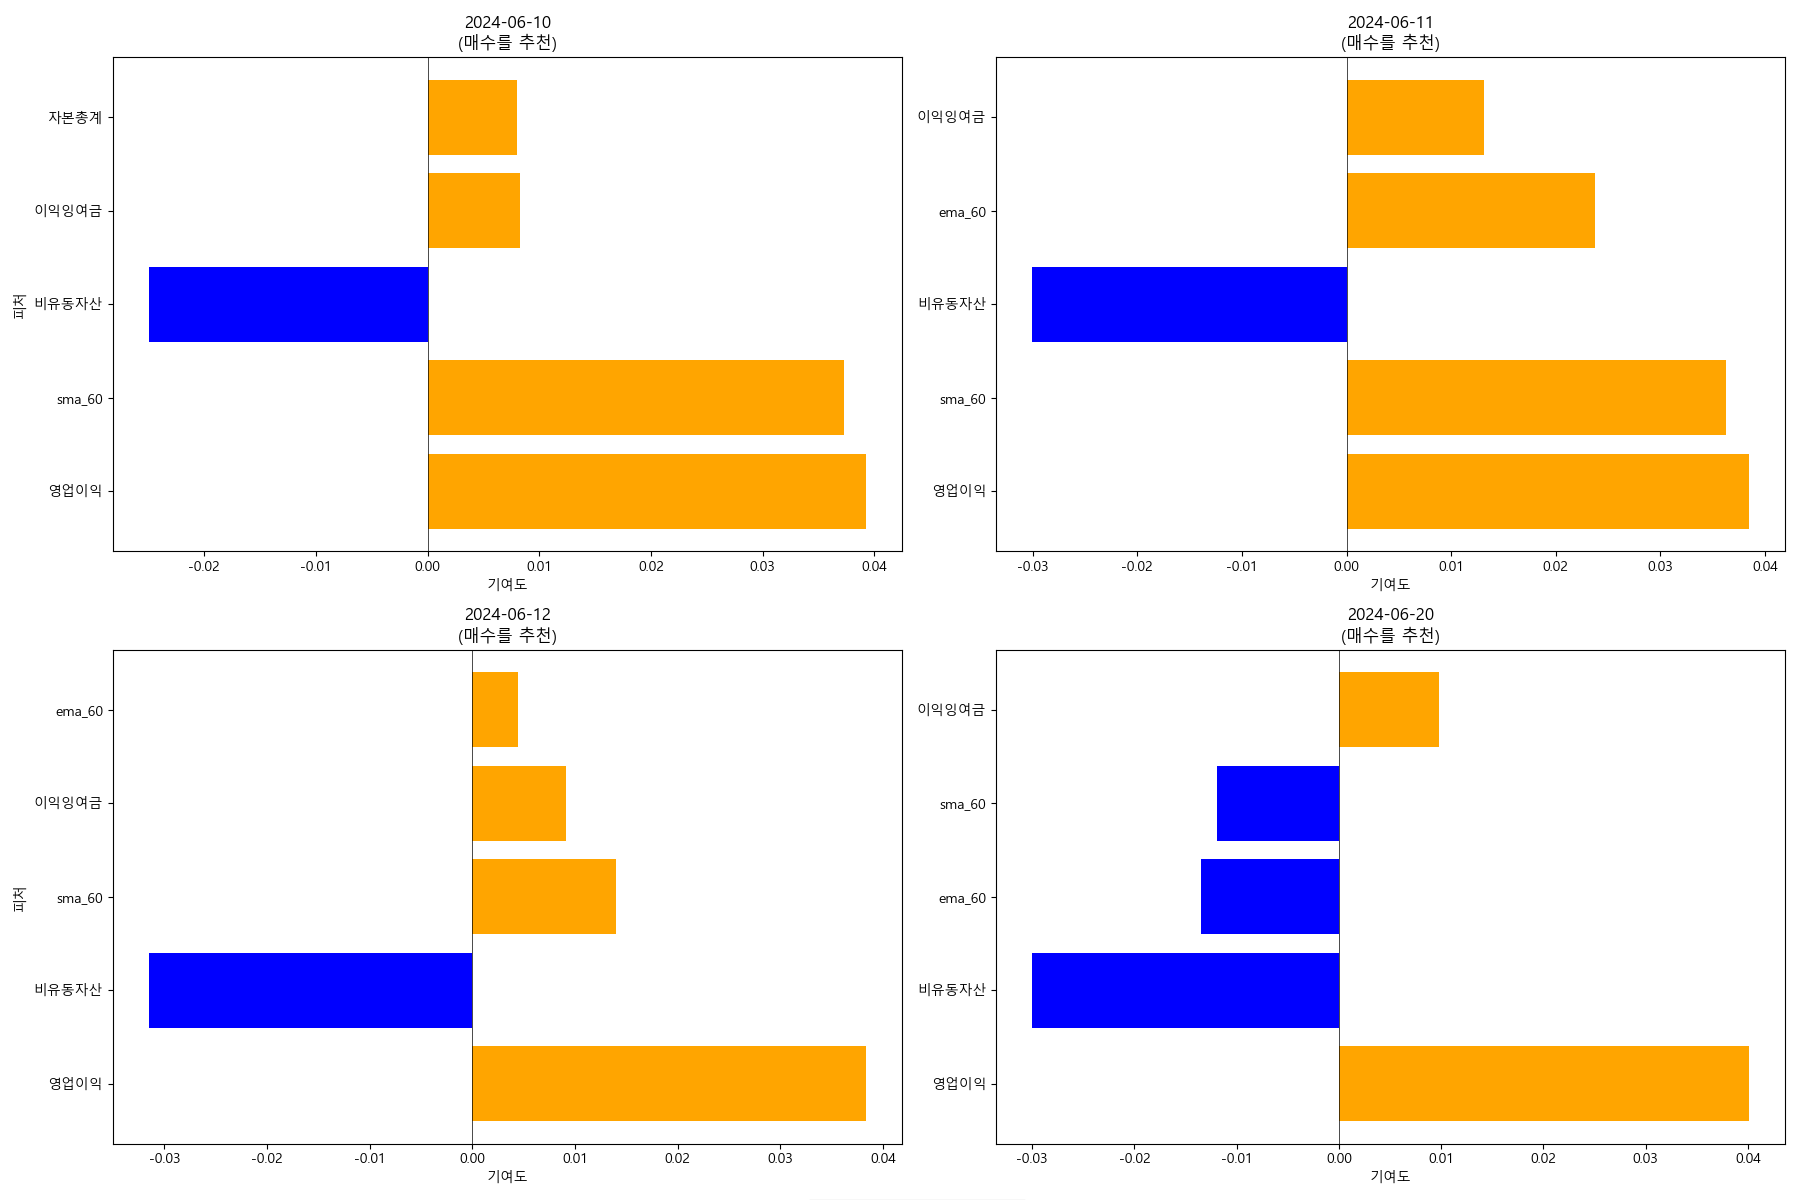
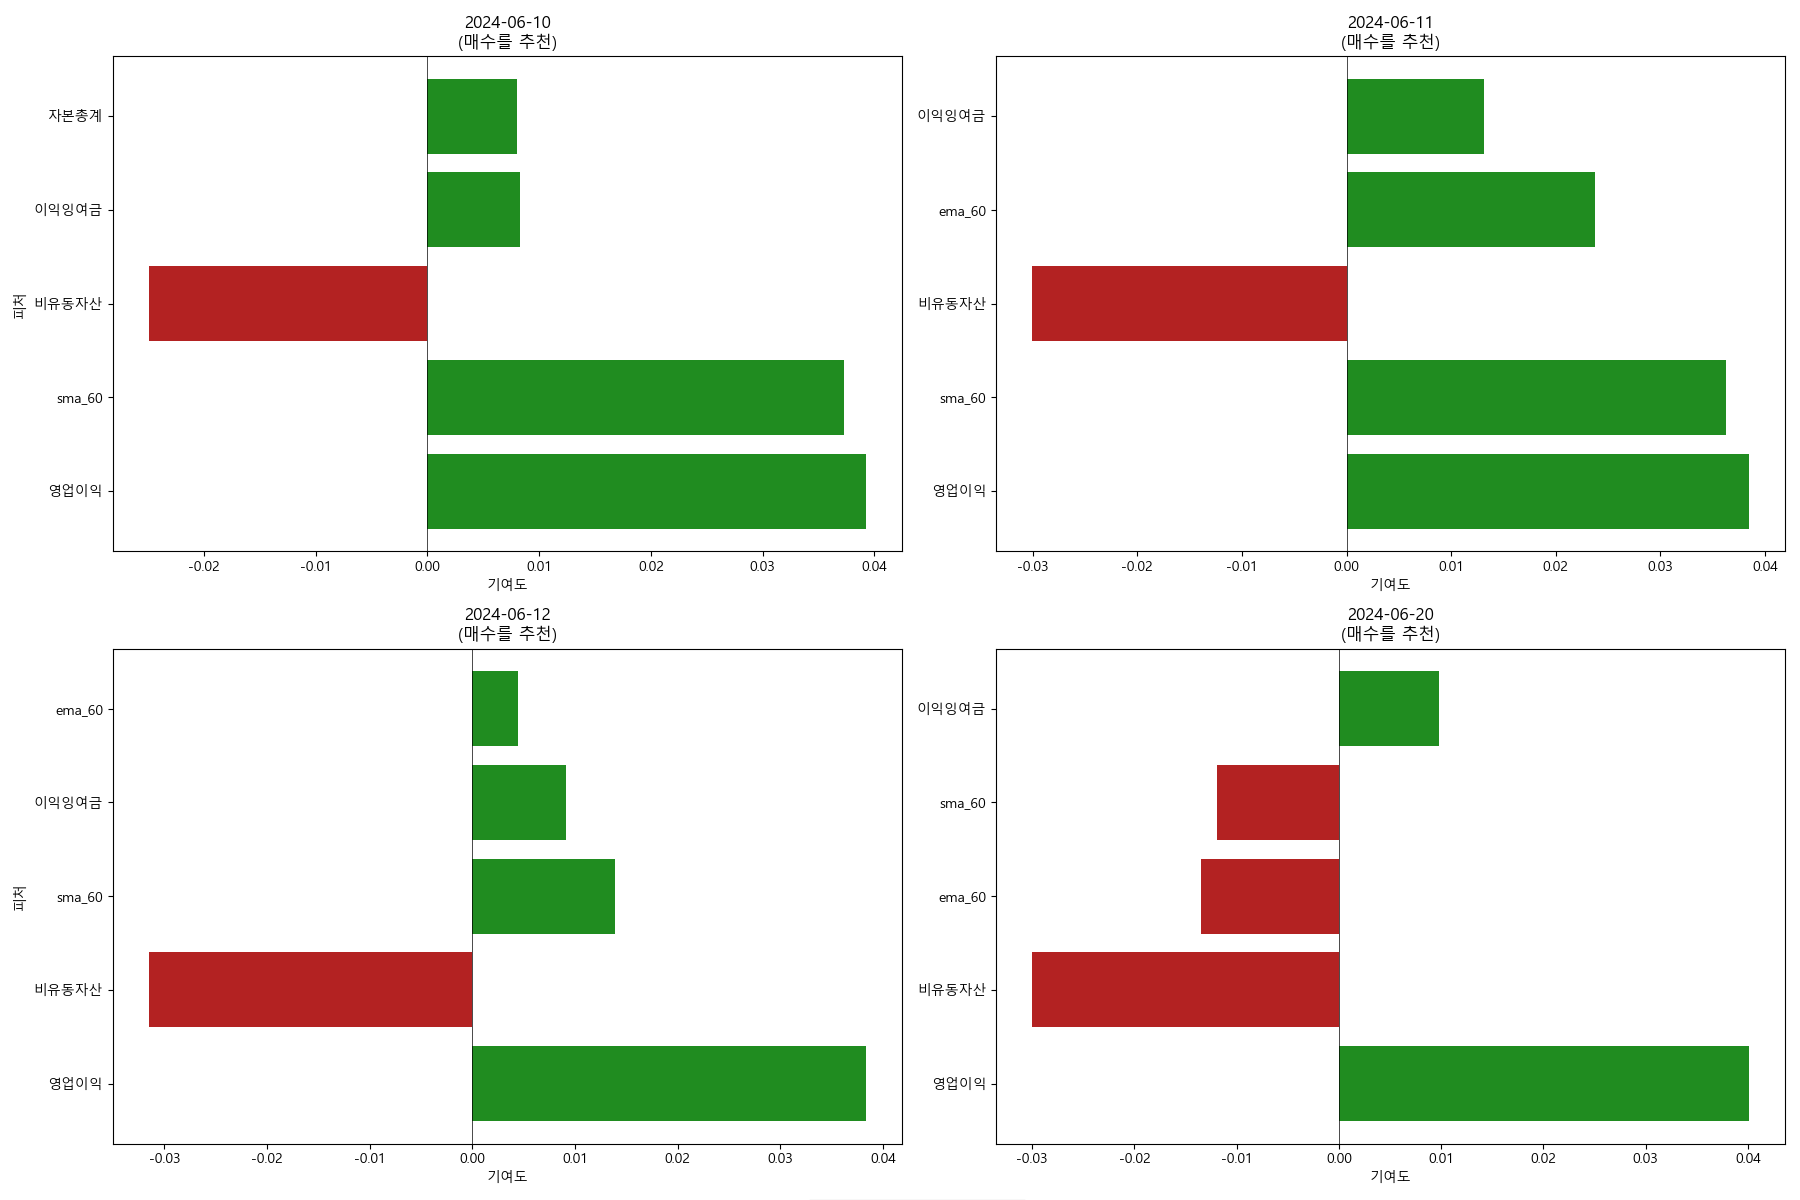
change LIME chart color

diff --git a/lime_explanation.py b/lime_explanation.py
@@ -71,8 +71,8 @@ def plot_lime(explanations, instance_dates, predictions, output_path):
 
         signal = "매수" if prediction > 0 else "매도"
 
-        axes[i].barh(features, positive_contrib, color='orange', label='Positive')
-        axes[i].barh(features, negative_contrib, color='blue', label='Negative')
+        axes[i].barh(features, positive_contrib, color='#208c20', label='Positive')
+        axes[i].barh(features, negative_contrib, color='#b32222', label='Negative')
         axes[i].axvline(0, color='black', linewidth=0.5)
         axes[i].set_title(
             f'{instance_date}\n({signal}를 추천)'
